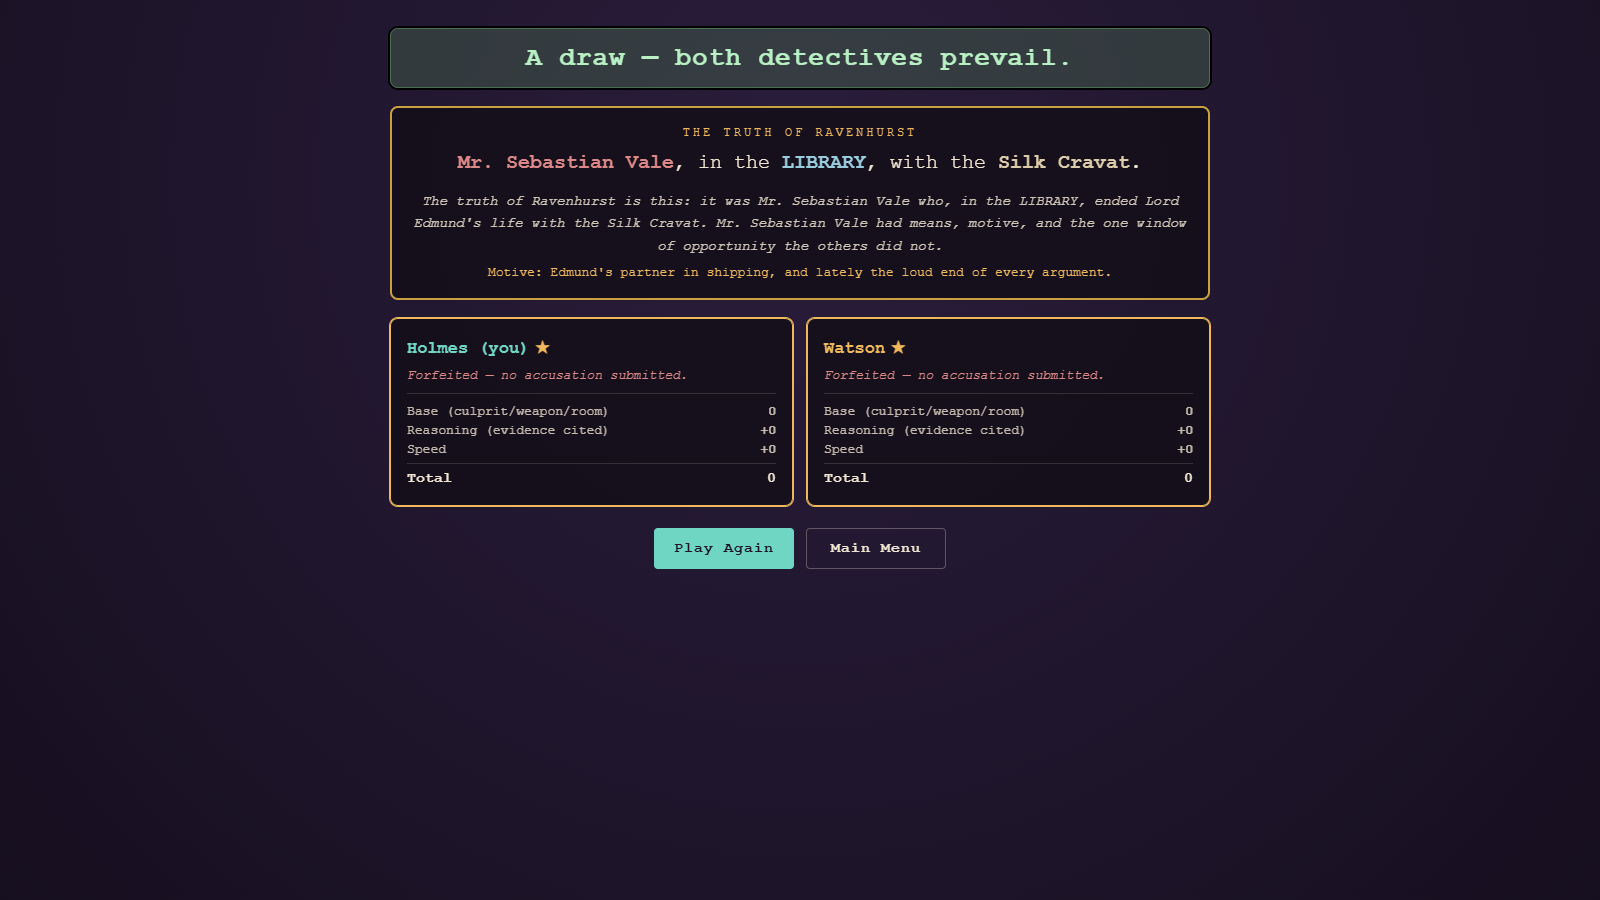
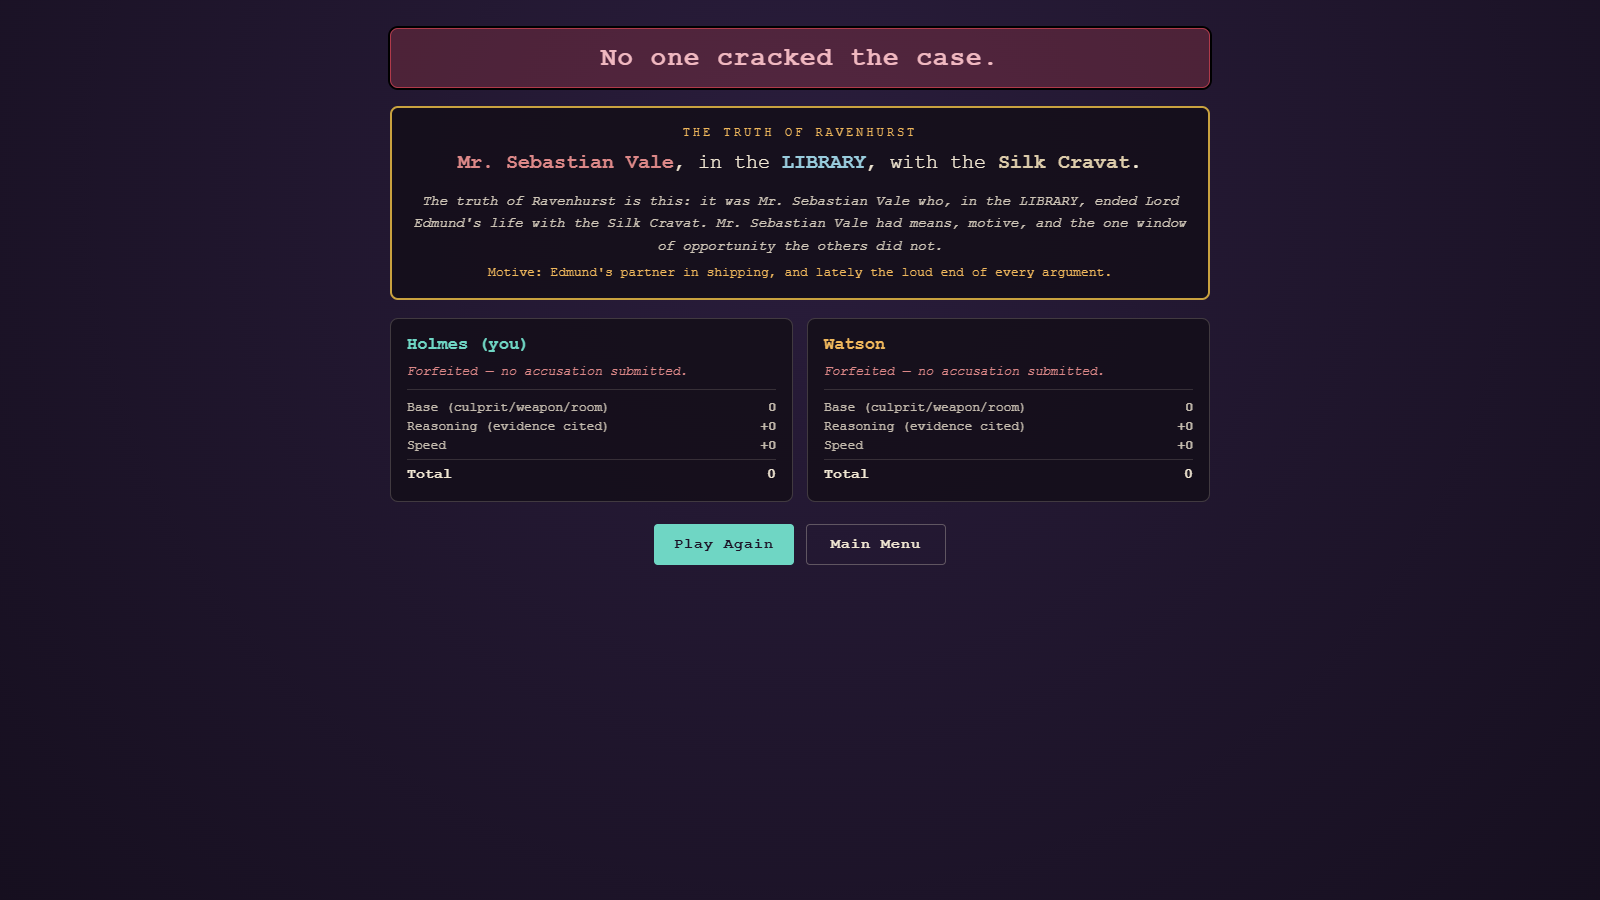
Code-review pass: fix room lifecycle, dead creak scheduler, modal keys, forfeit scoring
Six real bugs found in a full review of the client + server and reproduced in a
2-tab browser playtest before fixing. Existing tests were all green throughout —
none of these bug classes had coverage.

1. Exit Game never left the room server-side (worst of the set).
   backToLobby() was a pure client state reset — there was no room:leave intent
   and no server handler. The abandoned GameRoom kept running; when its soft cap
   fired, resolveGame() pushed game:reveal at the departed socket and App's
   always-mounted listener yanked the player out of whatever screen they were on
   (reproduced: thrown into the old game's reveal while waiting in a NEW room,
   silently abandoning the partner waiting there). The opponent was also never
   told their rival had walked away.
   - New room:leave handler + detachFromRoom() in rooms.js: drop the player,
     socket.leave() the code, clear socket.data.roomCode, emit
     peer:status {left:true}, push fresh views, reap if empty.
   - room:create / room:join detach first, so one socket never holds two rooms.
   - App sends net.leaveRoom() from Exit Game / Play Again / Main Menu and
     ignores a game:reveal that arrives when inGameRef says it's out of a game.

2. Random creaks (2.4b) never played at all — wrong effect dependency.
   The effect reads inGame but was keyed on [ambient], and ambient is ALREADY
   true on the menu/lobby, so the dep never changed at lobby→game and the
[…]

diff --git a/client/src/App.jsx b/client/src/App.jsx
@@ -1,4 +1,5 @@
 import { useState, useEffect, useRef, useCallback } from "react";
+import { SEARCH_MS } from "@shared/constants.js";
 import { net } from "./net/socket.js";
 import Lobby from "./components/Lobby.jsx";
 import MainMenu from "./components/MainMenu.jsx";
@@ -69,6 +70,7 @@ export default function App() {
   const [pingDot, setPingDot] = useState(false);
 
   const toastTimer = useRef(null);
+  const inGameRef = useRef(false);              // "am I still in a live game?" — read by the reveal guard
   const searchRef = useRef(null);              // active hotspot search: { timer, safety, stop }
   const clockOffset = useRef(0);                // serverNow - clientNow
   const accuseAnnounced = useRef(false);        // toasted when the window opened
@@ -111,10 +113,15 @@ export default function App() {
         kind: line.kind || "ambient", ts: Date.now(),
       }])
     );
-    const offPeer = net.on("peer:status", ({ connected }) =>
-      flash(connected ? "Opponent reconnected." : "Opponent disconnected…")
+    const offPeer = net.on("peer:status", ({ connected, left }) =>
+      flash(left ? "Opponent left the game." : connected ? "Opponent reconnected." : "Opponent disconnected…")
     );
     const offReveal = net.on("game:reveal", (payload) => {
+      // Guard: only accept a reveal for a game we are actually still in. A room
+      // we exited can still resolve on its own soft cap, and this listener is
+      // mounted for the whole app lifetime — without this check that stale
+      // reveal would yank the player out of the menu/lobby/next game.
+      if (!inGameRef.current) return;
       setReveal(payload); setShowAccuse(false);
       playReveal();   // dramatic sting the instant the truth is unveiled (rain bed stops via inGame)
     });
@@ -147,6 +154,7 @@ export default function App() {
   // they share one continuous idle-mansion scene, so the storm carries through)
   // plus active gameplay. Only the reveal is storm-free.
   const inGame = view?.status === "playing" && !reveal;
+  inGameRef.current = inGame;   // mirrored for the always-mounted game:reveal listener
   const atMenu = phase === "menu" && !view && !reveal;
   const preGame = !view && !reveal;
   const ambient = preGame || inGame;
@@ -181,7 +189,11 @@ export default function App() {
     };
     schedule();
     return () => clearTimeout(id);
-  }, [ambient]);
+    // MUST depend on `inGame`, not `ambient`: ambient is ALREADY true on the
+    // menu/lobby, so keying on it meant the dep never changed at lobby→game and
+    // the effect never re-ran — the scheduler was never armed and creaks never
+    // played at all. `inGame` is the flag this effect actually reads.
+  }, [inGame]);
 
   // Universal UI click sound: one delegated listener guarantees playButtonClick()
   // on EVERY <button> in the game (action pills, modal pickers, menu items, close
@@ -233,6 +245,15 @@ export default function App() {
     [view]
   );
 
+  // STABLE close handler for the examine result modal. This identity matters:
+  // ExamineModal arms its 5s auto-close in an effect keyed on [result, onClose],
+  // and App re-renders every second (the countdown heartbeat). An inline arrow
+  // here would be a fresh function every second, tearing down and re-arming that
+  // timeout forever — the modal would never auto-close.
+  const closeExamine = useCallback(() => setExamineResult(null), []);
+  const closeSuspects = useCallback(() => setShowSuspects(false), []);
+  const closeAccuse = useCallback(() => setShowAccuse(false), []);
+
   // Clear any in-flight hotspot search (timers + searching sfx).
   const finishSearch = useCallback(() => {
     const s = searchRef.current;
@@ -266,7 +287,7 @@ export default function App() {
     if (reduced) { doExamine(hotspotId); return; }
     setExamining({ hotspotId, startTime: Date.now() });
     playSearching();   // looping rustle for the duration of the search
-    const timer = setTimeout(() => doExamine(hotspotId), 2500);
+    const timer = setTimeout(() => doExamine(hotspotId), SEARCH_MS);
     // Defensive: if the searching state ever wedges, force-reset after 5s.
     const safety = setTimeout(() => { finishSearch(); setExamining(null); }, 5000);
     searchRef.current = { timer, safety };
@@ -303,6 +324,11 @@ export default function App() {
 
   const backToLobby = useCallback(() => {
     finishSearch();
+    // Tell the server we're out. Without this the GameRoom kept running: its soft
+    // cap would later fire and push a `game:reveal` at us in the lobby / next
+    // game, and the opponent was never told their rival had walked away.
+    inGameRef.current = false;
+    net.leaveRoom();
     setReveal(null); setView(null); setShowAccuse(false); setExamineResult(null); setExamining(null);
     setShowSuspects(false); setDialogues({}); setChat([]); setRegion(null);
     setShowActivity(false); setShowNotebook(false); setShowMenu(false);
@@ -392,7 +418,10 @@ export default function App() {
   }
 
   const me = view.you.character;
-  const counts = { [me]: view.you.clueCount, [view.opponent?.character]: view.opponent?.clueCount || 0 };
+  // Keyed by character id. Guarded: with no opponent present, spreading an
+  // undefined character would create a literal "undefined" key in the map.
+  const counts = { [me]: view.you.clueCount };
+  if (view.opponent?.character) counts[view.opponent.character] = view.opponent.clueCount || 0;
 
   // Current region: local movement is authoritative for UI; fall back to server.
   const curRoom = region?.room ?? view.you.room;
@@ -490,7 +519,7 @@ export default function App() {
           dialogues={dialogues}
           onAsk={askSuspect}
           onConfront={confrontSuspect}
-          onClose={() => setShowSuspects(false)}
+          onClose={closeSuspects}
         />
       )}
 
@@ -499,12 +528,12 @@ export default function App() {
           caseInfo={view.caseInfo}
           foundClues={view.you.foundClues}
           onSubmit={submitAccusation}
-          onClose={() => setShowAccuse(false)}
+          onClose={closeAccuse}
         />
       )}
 
       {examineResult && (
-        <ExamineModal result={examineResult} onClose={() => setExamineResult(null)} />
+        <ExamineModal result={examineResult} onClose={closeExamine} />
       )}
     </div>
   );

diff --git a/server/rooms.js b/server/rooms.js
@@ -26,11 +26,42 @@ export class RoomStore {
 
   get(code) { return this.rooms.get((code || "").toUpperCase()); }
   roomOf(socket) { return this.get(socket.data.roomCode); }
+
+  // Drop a room once nobody is left in it. Called from every exit path (explicit
+  // leave AND the disconnect grace timeout) — previously only the disconnect path
+  // deleted rooms, so every finished / abandoned game stayed in this Map for the
+  // lifetime of the process.
+  reapIfEmpty(room) {
+    if (!room || room.players.length > 0) return false;
+    room.clearTimers();
+    this.rooms.delete(room.code);
+    console.log(`[lobby] room ${room.code} closed (empty)`);
+    return true;
+  }
+}
+
+// Detach one socket from its room: drop the player, leave the socket.io room,
+// forget the code, tell whoever remains, and reap the room if it's now empty.
+// `left: true` distinguishes a deliberate exit from a dropped connection.
+export function detachFromRoom(io, socket, store, { left = false } = {}) {
+  const room = store.roomOf(socket);
+  if (!room) return null;
+  const player = room.player(socket.id);
+  room.removePlayer(socket.id);
+  socket.leave(room.code);
+  socket.data.roomCode = null;
+  socket.data.token = null;
+  io.to(room.code).emit("peer:status", { connected: false, left });
+  for (const p of room.players) io.to(p.id).emit("state:update", room.viewFor(p.id));
+  console.log(`[lobby] ${player?.name || socket.id} left ${room.code} (${room.players.length} remaining)`);
+  store.reapIfEmpty(room);
+  return room;
 }
 
 export function registerLobby(io, socket, store) {
   // Create a room; creator becomes Holmes (player 1).
   socket.on("room:create", ({ name, devMode } = {}, cb) => {
+    detachFromRoom(io, socket, store, { left: true }); // never hold two rooms at once
     const code = store.makeCode();
     const room = new GameRoom(code, Boolean(devMode));
     const player = room.addPlayer({ id: socket.id, name });
@@ -49,6 +80,7 @@ export function registerLobby(io, socket, store) {
     if (room.isFull()) return cb?.({ ok: false, error: "Room is full." });
     if (room.status !== "lobby") return cb?.({ ok: false, error: "Game already started." });
 
+    detachFromRoom(io, socket, store, { left: true }); // never hold two rooms at once
     const player = room.addPlayer({ id: socket.id, name });
     socket.join(room.code);
     socket.data.roomCode = room.code;
@@ -65,6 +97,15 @@ export function registerLobby(io, socket, store) {
       console.log(`[lobby] room ${room.code} started`);
     }
     cb?.({ ok: true, code: room.code, token: player.token, view: room.viewFor(socket.id) });
+  });
+
+  // Explicit exit: Exit Game / Play Again / Main Menu. The client used to just
+  // reset its own state, which left the GameRoom running — its soft cap would
+  // later fire and push a `game:reveal` at a player sitting in the lobby (or in
+  // a NEW room), and the opponent was never told their rival had walked away.
+  socket.on("room:leave", (_payload, cb) => {
+    detachFromRoom(io, socket, store, { left: true });
+    cb?.({ ok: true });
   });
 
   // Lightweight re-sync request (client can ask for its current view any time).
@@ -86,11 +127,7 @@ export function handleDisconnect(io, socket, store) {
 
   const t = setTimeout(() => {
     room.removePlayer(socket.id);
-    if (room.players.length === 0) {
-      room.clearTimers();
-      store.rooms.delete(room.code);
-      console.log(`[lobby] room ${room.code} closed (empty)`);
-    }
+    store.reapIfEmpty(room);
     store.disconnectTimers.delete(socket.id);
   }, RECONNECT_WINDOW_MS);
   store.disconnectTimers.set(socket.id, t);

diff --git a/client/src/components/AccusationModal.jsx b/client/src/components/AccusationModal.jsx
@@ -1,4 +1,4 @@
-import { useState } from "react";
+import { useState, useEffect } from "react";
 
 // Final accusation. The player names a culprit, weapon and room, then cites 2–3
 // supporting clues from their own evidence. LOCK IN is always clickable: if the
@@ -21,6 +21,24 @@ export default function AccusationModal({ caseInfo, foundClues = [], onSubmit, o
   const [clueIds, setClueIds] = useState([]);
   const [busy, setBusy] = useState(false);
   const [error, setError] = useState("");
+
+
+  // Drop focus from whatever opened this modal (the ACCUSE / QUESTION pill keeps
+  // DOM focus behind the overlay). Without this, closing with Esc and then
+  // pressing Enter re-activates that still-focused button and re-opens the modal.
+  useEffect(() => { document.activeElement?.blur?.(); }, []);
+
+  // Esc closes (same as clicking the backdrop). Deliberately NOT Enter: locking
+  // in is irreversible, so a stray Return must never submit — and it must not
+  // silently discard a half-built accusation either. Esc is also ignored while a
+  // submission is in flight.
+  useEffect(() => {
+    const onKey = (e) => {
+      if (e.key === "Escape" && !busy) { e.preventDefault(); onClose?.(); }
+    };
+    window.addEventListener("keydown", onKey);
+    return () => window.removeEventListener("keydown", onKey);
+  }, [onClose, busy]);
 
   const pick = (setter) => (val) => { setError(""); setter(val); };
 

diff --git a/client/src/components/SuspectModal.jsx b/client/src/components/SuspectModal.jsx
@@ -1,4 +1,4 @@
-import { useState } from "react";
+import { useState, useEffect } from "react";
 import { QUESTION_POOL } from "@shared/questions.js";
 import { QUESTION_CAP } from "@shared/constants.js";
 
@@ -20,6 +20,23 @@ export default function SuspectModal({ caseInfo, foundClues = [], questioning = 
   const log = (selectedId && dialogues[selectedId]) || [];
   const outOfQuestions = qState.asked >= QUESTION_CAP;
   const unusedClues = foundClues.filter((c) => !qState.confronted.includes(c.id));
+
+
+  // Drop focus from whatever opened this modal (the ACCUSE / QUESTION pill keeps
+  // DOM focus behind the overlay). Without this, closing with Esc and then
+  // pressing Enter re-activates that still-focused button and re-opens the modal.
+  useEffect(() => { document.activeElement?.blur?.(); }, []);
+
+  // Enter / Esc close the modal, matching ExamineModal and the in-game help.
+  // Listener lives only while this modal is mounted; BoardCanvas movement input
+  // is already suppressed for the duration (App's modalOpen → inputEnabled).
+  useEffect(() => {
+    const onKey = (e) => {
+      if (e.key === "Enter" || e.key === "Escape") { e.preventDefault(); onClose?.(); }
+    };
+    window.addEventListener("keydown", onKey);
+    return () => window.removeEventListener("keydown", onKey);
+  }, [onClose]);
 
   return (
     <div className="modal-backdrop" onClick={onClose}>

diff --git a/server/game.js b/server/game.js
@@ -335,8 +335,15 @@ export class GameRoom {
       s.total = s.base + s.reasoning + s.speed;
     }
 
-    const max = Math.max(...this.players.map((p) => scores[p.id].total));
-    const winners = this.players.filter((p) => scores[p.id].total === max).map((p) => p.character);
+    // Only players who actually SUBMITTED an accusation can win. Previously the
+    // max was taken over everyone, so a double forfeit (nobody accused → both
+    // score 0) came out as "winners: [holmes, watson]" and the reveal announced
+    // "A draw — both detectives prevail." for a game no one played. Forfeiting is
+    // not a way to win; with no contenders `winners` is empty and RevealScreen's
+    // "No one cracked the case." branch finally becomes reachable.
+    const contenders = this.players.filter((p) => !scores[p.id].forfeited);
+    const max = contenders.length ? Math.max(...contenders.map((p) => scores[p.id].total)) : -1;
+    const winners = contenders.filter((p) => scores[p.id].total === max).map((p) => p.character);
 
     this.reveal = this._buildReveal(scores, winners);
     return this.reveal;

diff --git a/client/src/game/drawBoard.js b/client/src/game/drawBoard.js
@@ -3,6 +3,7 @@
 import {
   PALETTE as P, GEO, COLS, ROWS, ROOMS, CONNECTIONS, roomRect, DOOR_HALF,
 } from "./boardData.js";
+import { SEARCH_MS } from "@shared/constants.js";
 
 // ---- low-level helpers -------------------------------------------------
 const rect = (c, x, y, w, h, fill, stroke, sw = 1) => {
@@ -265,7 +266,7 @@ export function drawHotspots(c, roomId, hotspots, examined, activeId) {
 // A cute white comic speech-cloud above the character (white fill, navy border,
 // soft shadow, down-tail, bouncing charcoal dots, gentle bob, puff in/out) plus a
 // glow on the hotspot being examined. (cx,cy) = feet; (hx,hy) = hotspot pixel.
-const SEARCH_DUR = 2500; // must match SEARCH_MS in App.jsx (puff-out timing)
+const SEARCH_DUR = SEARCH_MS; // shared with App.jsx's search timeout (puff-out timing)
 
 // One closed path: a rounded-rect cloud body with a small downward tail at centre,
 // so a single fill (with shadow) + single stroke (border) render cleanly.

diff --git a/client/src/game/sprites.js b/client/src/game/sprites.js
@@ -1,15 +1,19 @@
 // Loads sprite frames from public/assets via the generated manifest and keeps
 // decoded <img> elements in a cache so the render loop can draw them cheaply.
 
-let manifest = null;
+// Cache the PROMISE, not the resolved value: concurrent callers (menuScene loads
+// holmes + watson through Promise.all) would otherwise all see `manifest === null`
+// and each kick off their own fetch before the first one resolved.
+let manifestPromise = null;
 const cache = new Map(); // path -> HTMLImageElement
 
-async function getManifest() {
-  if (!manifest) {
-    const res = await fetch("/assets/sprites.json");
-    manifest = await res.json();
+function getManifest() {
+  if (!manifestPromise) {
+    manifestPromise = fetch("/assets/sprites.json")
+      .then((res) => res.json())
+      .catch((e) => { manifestPromise = null; throw e; });   // let a failed load retry
   }
-  return manifest;
+  return manifestPromise;
 }
 
 function preload(path) {

diff --git a/server/handlers/movement.js b/server/handlers/movement.js
@@ -1,7 +1,10 @@
 // SERVER-AUTHORITATIVE region tracking. The client free-roams in pixel space and
 // reports the room it has entered (or that it has stepped into the corridor). The
-// server validates room changes against the connection graph and pushes vague,
-// location-free notes to both players. Positions themselves are never broadcast.
+// server validates that the reported room EXISTS (see GameRoom.setRegion) and
+// pushes vague, location-free notes to both players. Positions themselves are
+// never broadcast. NOTE: entry is deliberately not gated on the connection graph
+// — the corridor physically joins all six rooms, so walls + doorways (enforced by
+// the shared collision geometry) are the real constraint.
 export function registerMovement(io, socket, store) {
   socket.on("region:enter", ({ room, inCorridor } = {}, cb) => {
     const gameRoom = store.roomOf(socket);

diff --git a/client/src/net/socket.js b/client/src/net/socket.js
@@ -16,6 +16,10 @@ export const net = {
   socket,
   createRoom: (name, devMode) => ask("room:create", { name, devMode }),
   joinRoom: (code, name) => ask("room:join", { code, name }),
+  // Explicit "I'm done with this room" (Exit Game / Play Again / Main Menu). The
+  // server drops us from the GameRoom so an abandoned game can't keep pushing
+  // reveals at us, and an empty room gets reaped instead of leaking.
+  leaveRoom: () => ask("room:leave", {}),
   enterRegion: (room, inCorridor) => ask("region:enter", { room, inCorridor }),
   examine: (hotspotId) => ask("hotspot:examine", { hotspotId }),
   askSuspect: (suspectId, questionId) => ask("suspect:ask", { suspectId, questionId }),

diff --git a/client/src/components/ClueTracker.jsx b/client/src/components/ClueTracker.jsx
@@ -1,3 +1,5 @@
+import { PROGRESS_TOTAL } from "@shared/constants.js";
+
 // Right section of the unified HUD bar. Shows ONLY each player's found-count out
 // of the total — never which room, what the clue is, or where anyone is. Uses a
 // progress bar (not 7 boxes) so the count always fits inside the panel.
@@ -6,7 +8,7 @@ const PLAYERS = [
   { id: "watson", name: "Watson", color: "#f0b85c" },
 ];
 
-export default function ClueTracker({ total = 5, counts = {}, me }) {
+export default function ClueTracker({ total = PROGRESS_TOTAL, counts = {}, me }) {
   return (
     <div className="hud-sec hud-clues">
       <div className="ct-title">CLUES FOUND</div>

diff --git a/client/src/components/ExamineModal.jsx b/client/src/components/ExamineModal.jsx
@@ -6,6 +6,12 @@ import { useEffect } from "react";
 const TAG_LABEL = { physical_evidence: "Physical Evidence", testimony: "Testimony", document: "Document" };
 
 export default function ExamineModal({ result, onClose }) {
+
+  // Drop focus from whatever opened this modal (the ACCUSE / QUESTION pill keeps
+  // DOM focus behind the overlay). Without this, closing with Esc and then
+  // pressing Enter re-activates that still-focused button and re-opens the modal.
+  useEffect(() => { document.activeElement?.blur?.(); }, []);
+
   // Auto-close after 5s.
   useEffect(() => {
     const t = setTimeout(() => onClose?.(), 5000);

diff --git a/client/src/components/GameMenu.jsx b/client/src/components/GameMenu.jsx
@@ -24,7 +24,7 @@ export default function GameMenu({ open, soundOn, roomCode, devMode, onToggleSou
             <li>Walk up to furniture and press <b>E</b> to examine it (takes a moment to search); <b>Question</b> suspects for testimony.</li>
             <li>Mark suspects, weapons &amp; rooms in your <b>Notebook</b> as you deduce.</li>
             <li>When <b>Accuse</b> opens, name culprit + weapon + room and <b>lock in</b>.</li>
-            <li><b>Enter</b> or <b>Esc</b> closes popups.</li>
+            <li><b>Esc</b> closes popups (<b>Enter</b> too, except on the accusation form).</li>
           </ol>
         </div>
 
